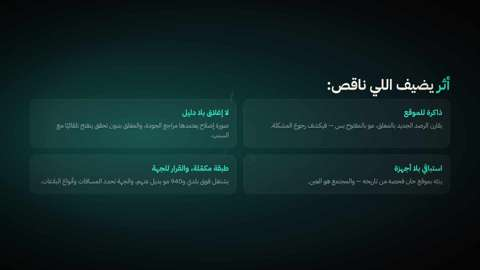
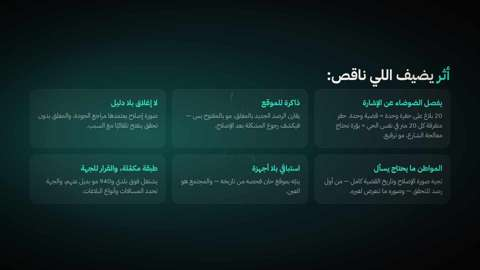
ATHAR deck: noise vs signal, citizen gets repair photo and case history
Claude-Session: https://claude.ai/code/session_01HCcpXYktcr5NUMAYvsAmR8

Changed region(s): [[0.0625, 0.237, 0.9375, 0.5333], [0.0938, 0.5926, 0.9375, 0.7407], [0.4375, 0.5037, 0.4688, 0.5333]]

diff --git a/presentations/athar-madinah/index.html b/presentations/athar-madinah/index.html
@@ -132,9 +132,11 @@
       </div>
       <div class="grp">
         <div class="h2 a words" data-step="2" style="font-size:58px"><span class="teal">أثر</span> يضيف اللي ناقص:</div>
-        <div class="grid3 a" data-step="2" style="grid-template-columns:repeat(2,1fr)">
-          <div class="card"><div class="t teal">ذاكرة للموقع</div><div class="d">يقارن الرصد الجديد بالمغلق، مو بالمفتوح بس — فيكشف رجوع المشكلة.</div></div>
+        <div class="grid3 a" data-step="2">
+          <div class="card"><div class="t teal">يفصل الضوضاء عن الإشارة</div><div class="d">20 بلاغ على حفرة وحدة = قضية وحدة. حفر متفرقة كل 20 متر في نفس الحي = بؤرة تحتاج معالجة الشارع، مو ترقيع.</div></div>
+          <div class="card"><div class="t teal">ذاكرة للموقع</div><div class="d">يقارن الرصد الجديد بالمغلق، مو بالمفتوح بس — فيكشف رجوع المشكلة بعد الإصلاح.</div></div>
           <div class="card"><div class="t teal">لا إغلاق بلا دليل</div><div class="d">صورة إصلاح يعتمدها مراجع الجودة، والمغلق بدون تحقق ينفتح تلقائيًا مع السبب.</div></div>
+          <div class="card"><div class="t teal">المواطن ما يحتاج يسأل</div><div class="d">تجيه صورة الإصلاح وتاريخ القضية كامل — من أول رصد للتحقق — وصوره ما تنعرض لغيره.</div></div>
           <div class="card"><div class="t teal">استباقي بلا أجهزة</div><div class="d">ينبّه بموقع حان فحصه من تاريخه — والمجتمع هو العين.</div></div>
           <div class="card"><div class="t teal">طبقة مكمّلة، والقرار للجهة</div><div class="d">يشتغل فوق بلدي و940 مو بديل عنهم، والجهة تحدد المسافات وأنواع البلاغات.</div></div>
         </div>
@@ -206,7 +208,7 @@
     <div class="col wide" style="gap:26px">
       <div class="kicker a" data-step="1">نرجع لهم… مع أثر</div>
       <div class="after a" data-step="1"><img src="assets/img/p-abufahad.svg" alt=""><div><div class="t">أبو فهد</div><div class="d">ما يرفع بلاغ جديد؛ أثر يقول له <b class="teal">«هذه المشكلة معروفة»</b> ويضيف رصده للقضية — ولأنها رجعت بعد إصلاح، تنفتح وتنحسب «عودة».</div></div></div>
-      <div class="after a" data-step="1"><img src="assets/img/p-umrayan.svg" alt=""><div><div class="t">أم ريان</div><div class="d">تشوف وين وصلت القضية وصورة الإصلاح، وبعد الإغلاق تقول: <b class="teal">«تحسّن»</b> أو <b class="gold">«ما زال»</b>.</div></div></div>
+      <div class="after a" data-step="1"><img src="assets/img/p-umrayan.svg" alt=""><div><div class="t">أم ريان</div><div class="d">ما تحتاج تسأل: <b class="teal">تجيها صورة الإصلاح وتاريخ القضية كامل</b>، وبعد الإغلاق تقول: <b class="teal">«تحسّن»</b> أو <b class="gold">«ما زال»</b>.</div></div></div>
       <div class="after a" data-step="1"><img src="assets/img/p-inspector.svg" alt=""><div><div class="t">فريق الصيانة</div><div class="d">يشوف تاريخ الموقع كامل، وينبّهه أثر <b class="teal">يفحصه قبل الموعد المتوقع للرجوع بـ7 أيام</b> — بدل ما ينتظر البلاغ الخامس.</div></div></div>
       <div class="src a" data-step="1">قصص توضيحية — السلوك من النموذج الأولي نفسه</div>
     </div>

diff --git a/presentations/athar-madinah/js/deck.js b/presentations/athar-madinah/js/deck.js
@@ -134,7 +134,7 @@
     B.beat('الموجود: محليًا وعالميًا', 'بحثنا محليًا وعالميًا: بلدي و940 عندنا، ومبادرة الراصد المعتمد من وزارة البلديات اللي تخلّي المجتمع يرصد المخالفات، FixMyStreet في بريطانيا، SeeClickFix في أمريكا، 12345 في بكين، وvialytics في ألمانيا وMy City Report في اليابان. فيه من يدمج المكرر، وفيه من يسأل المبلّغ انصلحت؟ لكن ما أحد يقارن البلاغ الجديد بالمغلق في نفس الموقع ويقول: هذي رجعت بعد إصلاح. — 18 ثانية');
 
     s = at(); hide('s-exist', 1, s); reveal('s-exist', 2, s + .45, .35); color('teal', s, 1);
-    B.beat('الموجود: وش يضيف أثر', 'أثر يضيف اللي ناقص: ذاكرة للموقع تقارن بالمغلق مو بالمفتوح بس، ولا إغلاق بلا دليل، واستباقي بلا أجهزة، وطبقة مكمّلة لبلدي والقرار للجهة. — 12 ثانية');
+    B.beat('الموجود: وش يضيف أثر', 'أثر يضيف اللي ناقص: يفصل الضوضاء عن الإشارة — عشرين بلاغ على حفرة وحدة قضية وحدة، وحفر متفرقة كل عشرين متر في نفس الحي بؤرة تحتاج معالجة الشارع. وذاكرة للموقع تقارن بالمغلق، ولا إغلاق بلا دليل، والمواطن ما يحتاج يسأل — تجيه صورة الإصلاح وتاريخ القضية، واستباقي بلا أجهزة، وطبقة مكمّلة لبلدي والقرار للجهة. — 20 ثانية');
 
     B.scene('الدليل');
     s = at(); enter('s-evidence', s); color('teal', s); morph('shield', s, 1.8, { op: .25, x: -.55, scale: 1.1 });
@@ -161,7 +161,7 @@
 
     B.scene('بعد أثر');
     s = at(); enter('s-after', s); bg('Teal', s, 1.2); morph('check', s, 1.8, { lock: 0, rot: 0, op: .25, x: -.6, scale: .8, tilt: .1 }); reveal('s-after', 1, s + .5, .6);
-    B.beat('نرجع لهم مع أثر', 'نرجع لهم: أبو فهد ما يرفع بلاغ جديد — أثر يقول له هذه المشكلة معروفة، ولأنها رجعت بعد إصلاح تنفتح وتنحسب عودة. أم ريان تشوف وين وصلت القضية وصورة الإصلاح، وتقول تحسّن أو ما زال. وفريق الصيانة ينبّهه أثر يفحص الموقع قبل موعد رجوعه المتوقع. — 15 ثانية');
+    B.beat('نرجع لهم مع أثر', 'نرجع لهم: أبو فهد ما يرفع بلاغ جديد — أثر يقول له هذه المشكلة معروفة، ولأنها رجعت بعد إصلاح تنفتح وتنحسب عودة. أم ريان ما تحتاج تسأل: تجيها صورة الإصلاح وتاريخ القضية كامل، وتقول تحسّن أو ما زال. وفريق الصيانة ينبّهه أثر يفحص الموقع قبل موعد رجوعه المتوقع. — 15 ثانية');
 
     B.scene('تحديات المدينة');
     s = at(); enter('s-fit', s); bg('Night', s, 1.2); color('night', s); morph('eye', s, 1.8, { op: .2, x: 0, scale: 1.4 }); reveal('s-fit', 1, s + .5, .5);
